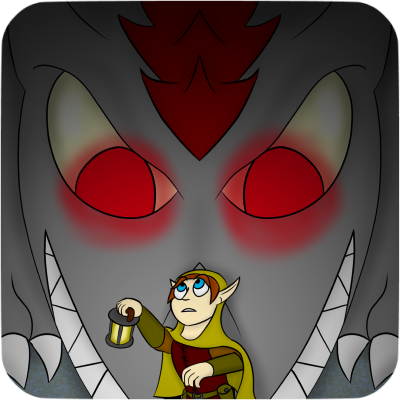
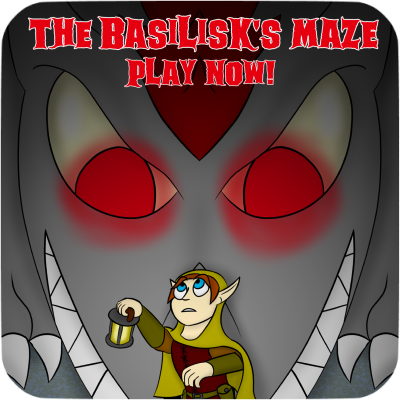
Styled main page. Some content placed in the summary. Home tiles had text game titles removed; the game titles are just printed onto the image now. Looks almost like a real website now. Jumbotron needs work figuring out right sizes for images. Navbar could use work as well.

Changed region(s): [[0.06, 0.03, 0.96, 0.24]]

diff --git a/index.html b/index.html
@@ -5,16 +5,16 @@
 	<meta http-equiv="X-UA-Compatible" content="IE=edge">
     <meta name="viewport" content="width=device-width, initial-scale=1">
 	<title>Dragon King Studios</title>
+	<link href="https://fonts.googleapis.com/css2?family=Almendra:ital,wght@0,400;0,700;1,400;1,700&display=swap" rel="stylesheet">
 	<link rel="shortcut icon" href="images/favicon.png" type="image/x-icon">
 	<link rel="stylesheet" href="css/bootstrap.min.css">
 	<link rel="stylesheet" href="css/styles.css">
 </head>
 <body>
-	<header>
-		<nav class="navbar navbar-expand-sm navbar-light bg-light">
+	<header id="head">
+		<nav id="header-nav" class="navbar navbar-expand-lg navbar-light">
 			<a class="navbar-brand" href="index.html">
-				<!-- <img src="images/dkslogo_navbar.png" alt="Dragon King Studios"> -->
-				<h1>Dragon King Studios</h1>
+				<img src="images/dks_header.png" alt="Dragon King Studios">
 			</a>
 			<button class="navbar-toggler" type="button" data-toggle="collapse" data-target="#navMenu" aria-controls="navMenu" aria-expanded="false" aria-label="Toggle navigation">
 				<span class="navbar-toggler-icon"></span>
@@ -25,10 +25,10 @@
 						<a class="nav-link" href="index.html">Home</a>
 					</li>
 					<li class="nav-item">
-						<a class="nav-link disabled" href="#"><img src="images/foodchain_navbar_icon.png">Food Chain</a>
+						<a class="nav-link disabled" href="#"><img src="images/foodchain_navbar_icon.png"> Food Chain</a>
 						</li>
 					<li class="nav-item">
-						<a class="nav-link disabled" href="#"><img src="images/basiliskmaze_navbar_icon.png">The Basilisk's Maze</a>
+						<a class="nav-link disabled" href="#"><img src="images/basiliskmaze_navbar_icon.png"> The Basilisk's Maze</a>
 						</li>
 					<li class="nav-item">
 						<a class="nav-link disabled" href="#">About</a>
@@ -39,29 +39,27 @@
 	</header>
 
 	<div class="container">
-		<div class="jumbotron"><img src="images/gfx_dkslogo.png" alt="Dragon King Studios logo"></div>
-		<h2 class="text-center">The Games of Dragon King Studios</h2>
-		<p class="text-center">Lorem Ipsum etcetera etcetara blah blah blah</p>
+		<div class="jumbotron"><img src="images/dks_jumbo_lg.png" alt="Dragon King Studios logo"></div>
+		<h1 class="text-center">The Games of Dragon King Studios</h1>
+		<p class="text-center">Growing up playing video games, I got into computer science when I learned one person to make a game if they just knew how.<br>While I ended up deciding that making games for a living wasn't for me, I did complete and release two games on Google Play under my personal brand, "Dragon King Studios."<br>They may not have earned me any money, but they got me some experience programming and finishing projects, and they can help me out one more time by showcasing my capabilities in web coding.<br><br>Check them out on their personal pages:</p>
 		<div class="row">
-			<div class="col-md-6 col-sm-12">
-				<img src="images/foodchain_hometile.png">
-				<span>Food Chain</span><br><span>There's Always a Bigger Fish</span>
+			<div class="col-lg-6 col-md-12">
+				<div class="hometile-foodchain"></div>
 			</div>
-			<div class="col-md-6 col-sm-12">
-				<img src="images/basiliskmaze_hometile.png">
-				<span>The Basilisk's Maze</span><br><span>Play Now!</span>
+			<div class="col-lg-6 col-md-12">
+				<div class="hometile-basilisk"></div>
 			</div>
 		</div>
 	</div>
 
-	<footer>
-		<nav class="navbar fixed-bottom navbar-light bg-light">
+	<footer id="foot">
+		<nav class="navbar navbar-light">
 			<div class="navbar-text mx-auto">&copy;Alex Macaulay</div>
 		</nav>
 	</footer>
 
 	<script src="js/jquery-3.5.1.min.js"></script>
 	<script src="js/bootstrap.min.js"></script>
-	<script src="js/script.js"></script>
+	<script src="js/scripts.js"></script>
 </body>
 </html>

diff --git a/css/styles.css b/css/styles.css
@@ -1,0 +1,68 @@
+:root {
+	--back: #B8CDE0;
+	--back-shadow: #9bb0d1;
+	--fore: #82A4C3;
+	--button: #6B88A1;
+}
+
+body {
+	background-color: var(--back);
+	font-size: 20px;
+	font-family: 'Almendra', serif;
+}
+
+.container {
+	margin-top: 10px;
+	margin-bottom: 50px;
+}
+
+#head, #foot {
+	background-color: var(--fore);
+}
+
+#head {
+	box-shadow: 0 2px var(--back-shadow);
+}
+
+#header-nav {
+	clear: both;
+}
+
+.nav-item {
+	background-color: var(--button);
+	border: 1px black solid;
+	border-radius: 10px;
+	margin: 5px;
+	font-size: 1.5em;
+	text-align: center;
+}
+
+.jumbotron {
+	padding: 0;
+}
+
+.jumbotron img {
+	width: 100%;
+}
+
+.hometile-foodchain, .hometile-basilisk {
+	width: 400px;
+	height: 400px;
+	position: relative;
+	margin-left: auto;
+	margin-right: auto;
+	margin-bottom: 15px;
+	font-color: white;
+	box-shadow: 0 2px 2px 2px var(--back-shadow);
+}
+
+.hometile-foodchain {
+	background: url("../images/foodchain_hometile.png") no-repeat;
+	background-position: center;
+}
+
+.hometile-basilisk {
+	background: url("../images/basiliskmaze_hometile.png") no-repeat;
+	background-position: center;
+	border-radius: 50px;
+}
